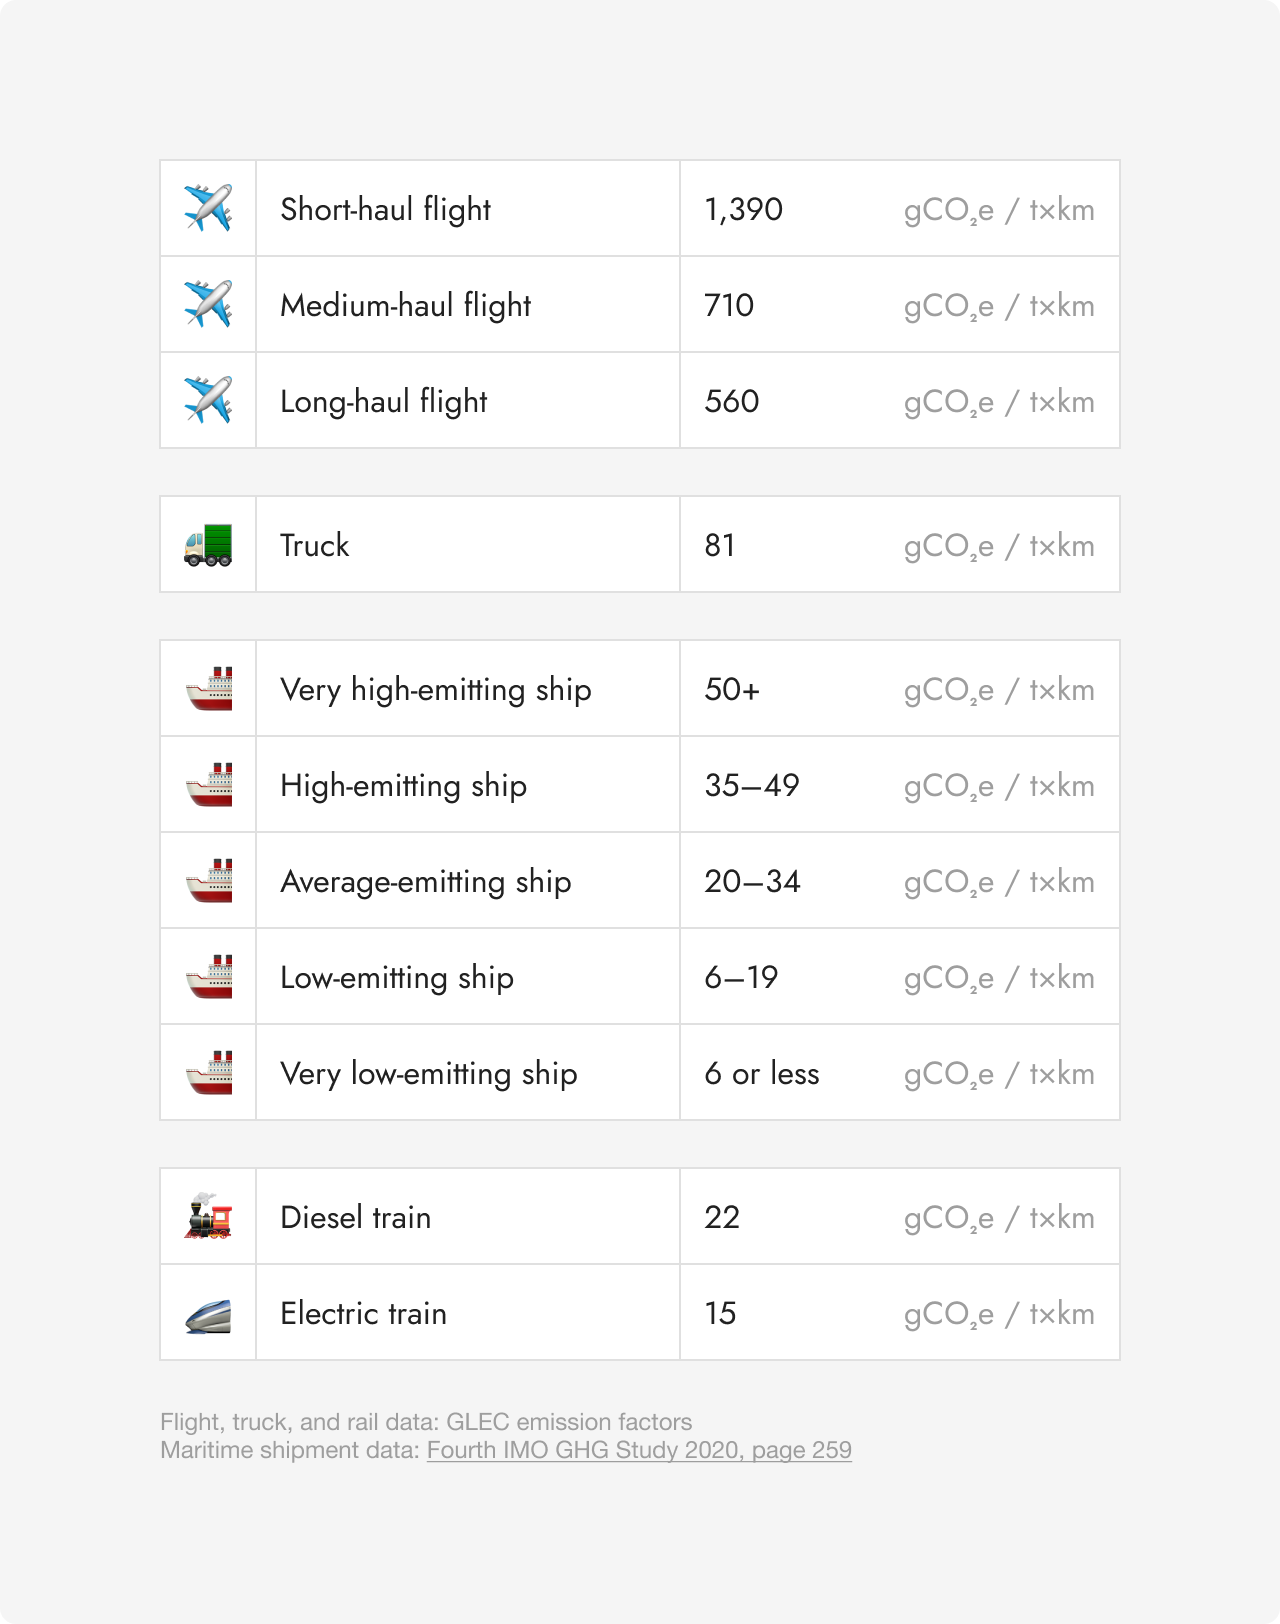
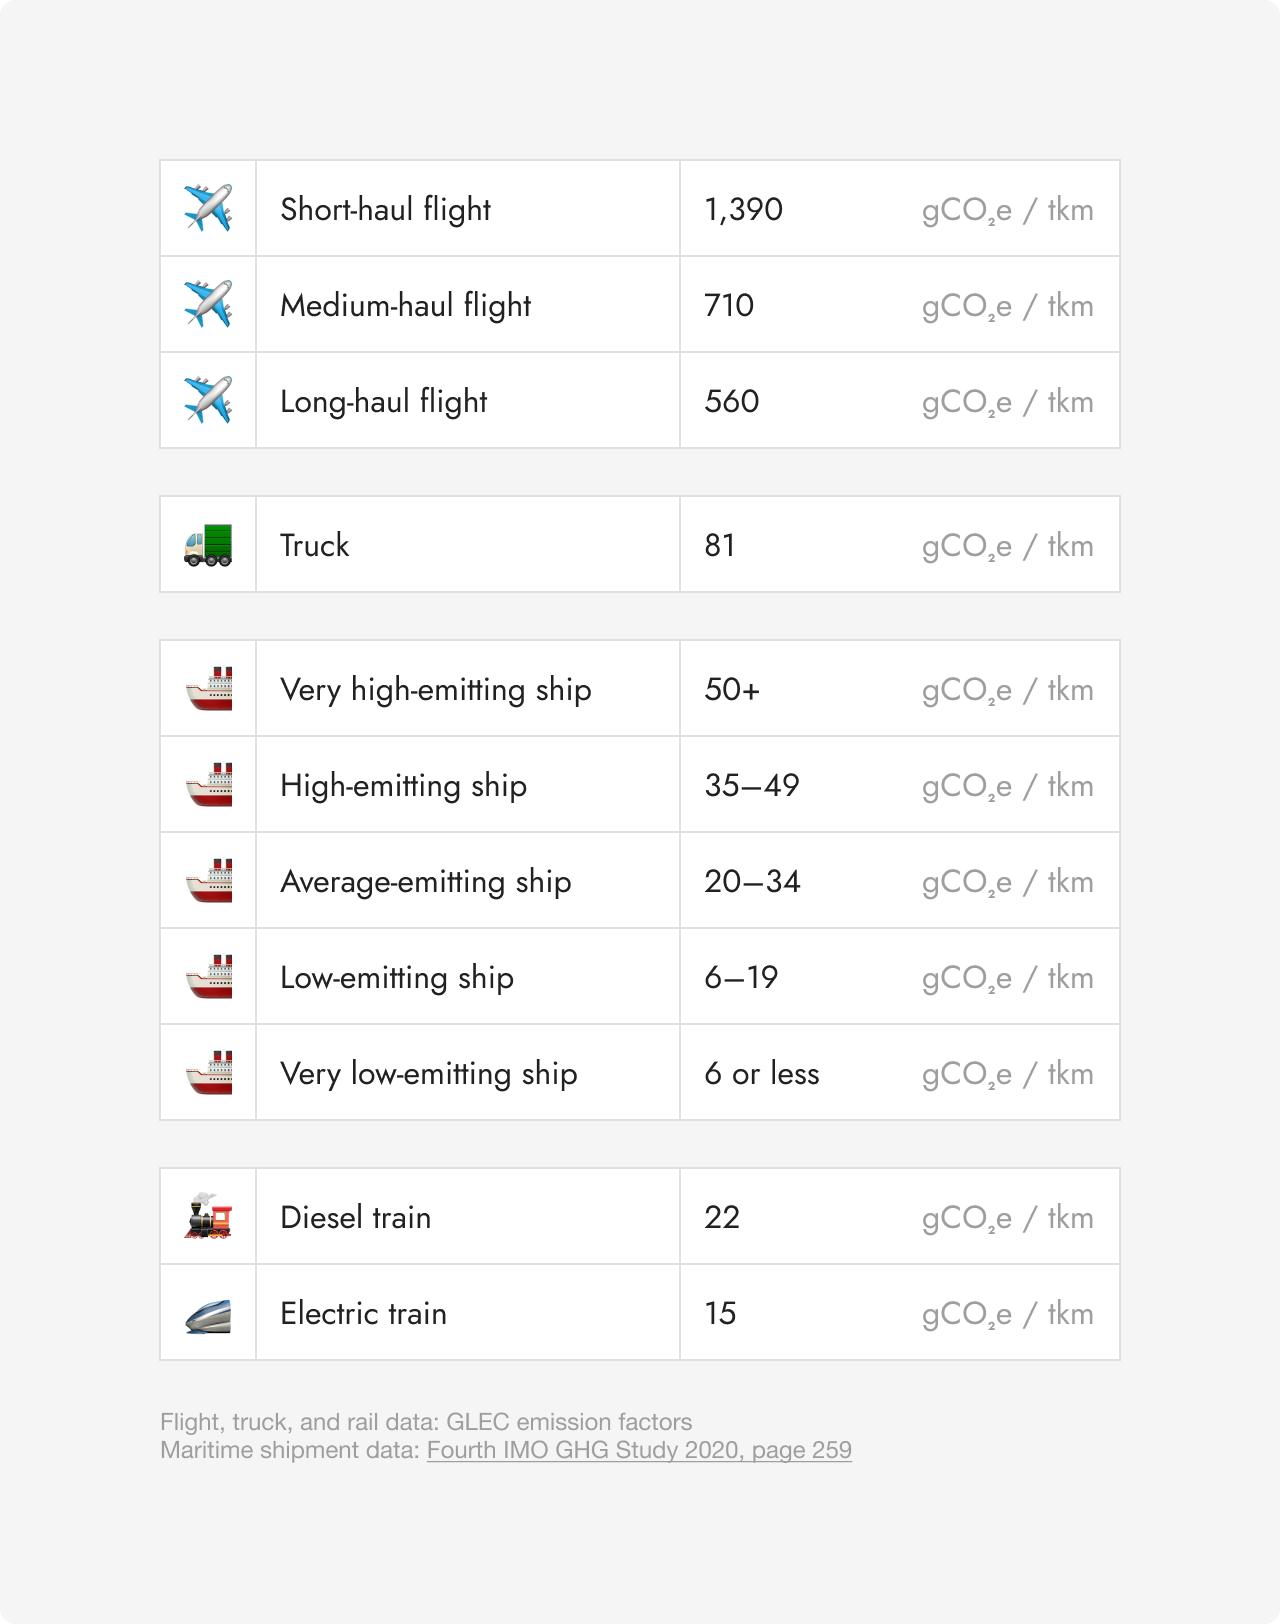
Refactor carbon intensity page (#488)
* Swap images
* txkm -> tkm
* Be more specific about logistics

diff --git a/docs/product-and-design-guides/carbon-intensity.md b/docs/product-and-design-guides/carbon-intensity.md
@@ -23,9 +23,9 @@ The more CO₂e a product or service emits – per unit – the higher its carbo
 </div>
 <div>
 
-## Measuring carbon intensity
+## Measuring logistics carbon intensity
 
-Carbon intensity is measured in gCO₂e / t×km.
+Logistics carbon intensity is measured in gCO₂e / tkm.
 
 That’s a mouthful, let’s unpack it:
 * gCO₂e means: how many grams of CO₂e are emitted
@@ -52,7 +52,7 @@ That’s a mouthful, let’s unpack it:
 
 ## Flight, maritime, road, and rail freight
 
-Carbon intensity varies significantly depending on the transport method used. For example flights’ carbon intensity ranges between 560 and 1,390 gCO₂e / t×km, while maritime shipments range between 6 and 50 gCO₂e / t×km.
+Carbon intensity varies significantly depending on the transport method used. For example flights’ carbon intensity ranges between 560 and 1,390 gCO₂e / tkm, while maritime shipments range between 6 and 50 gCO₂e / tkm.
 
 Even within the same transport method category, carbon intensity can vary significantly. For example for container ships there’s a few things to consider:
 * The age of the ship
@@ -60,7 +60,7 @@ Even within the same transport method category, carbon intensity can vary signif
 * The type of engine it uses
 * The type of fuel it uses
 
-Data from the Fourth IMO GHG Study 2020 shows for example that within the same bulk carrier category the carbon intensity can range between 37.6 and 2.2 gCO₂e / t×km.
+<u>Data from the Fourth IMO GHG Study 2020</u> shows for example that within the same bulk carrier category the carbon intensity can range between 2.2 and 37.6 gCO₂e / tkm.
 
 </div>
 </div>
@@ -84,7 +84,7 @@ Data from the Fourth IMO GHG Study 2020 shows for example that within the same b
 
 In this example, a company wants to nudge customers in using more EVs for shipping goods. To achieve this they want to show each customer’s carbon intensity, compared to the average.
 
-Carbon intensity ranges between 0 and 100 gCO₂ / t×km (based on their customers’ aggregate data). The average is 42 gCO₂ / t×km.
+Carbon intensity ranges between 0 and 100 gCO₂ / tkm (based on their customers’ aggregate data). The average is 42 gCO₂ / tkm.
 
 </div>
 </div>
@@ -109,9 +109,9 @@ In this other example, a company allows users to ship their goods with many tran
 They want to nudge their users to become sustainability leaders and move them away from excessively using air freight, which has a high carbon intensity.
 
 Again, using aggregate data they have defined 3 bands:
-* Leader, below 200 gCO₂ / t×km
-* Average, between 200 and 400 gCO₂ / t×km
-* Too much air freight, above 400 gCO₂ / t×km
+* Leader, below 200 gCO₂ / tkm
+* Average, between 200 and 400 gCO₂ / tkm
+* Too much air freight, above 400 gCO₂ / tkm
 
 </div>
 </div>
